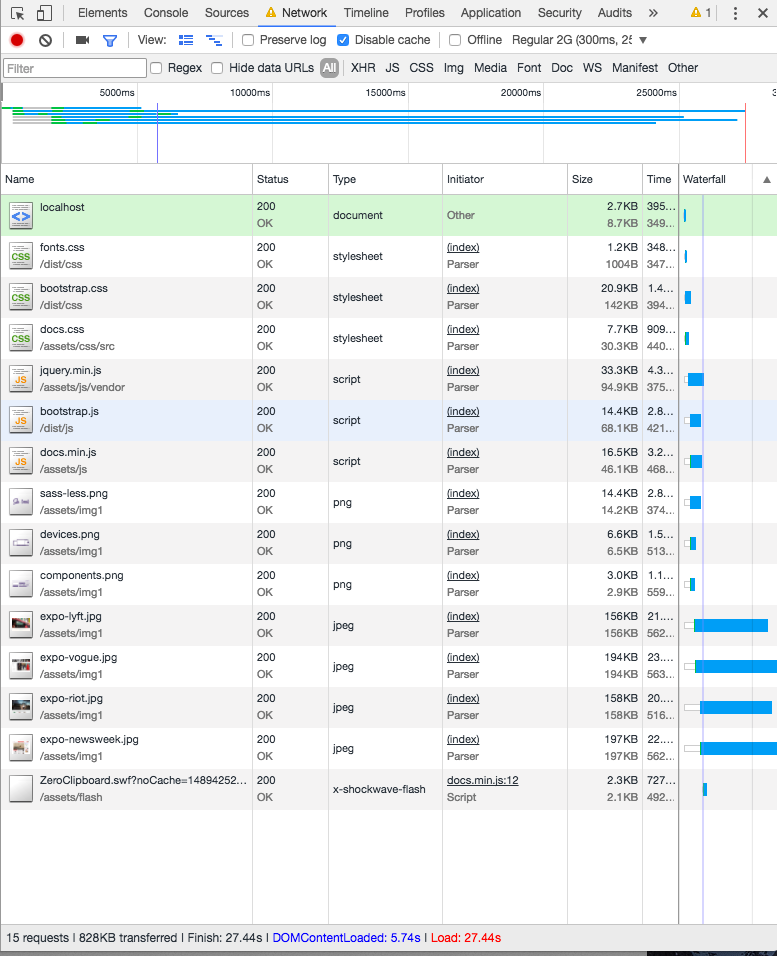
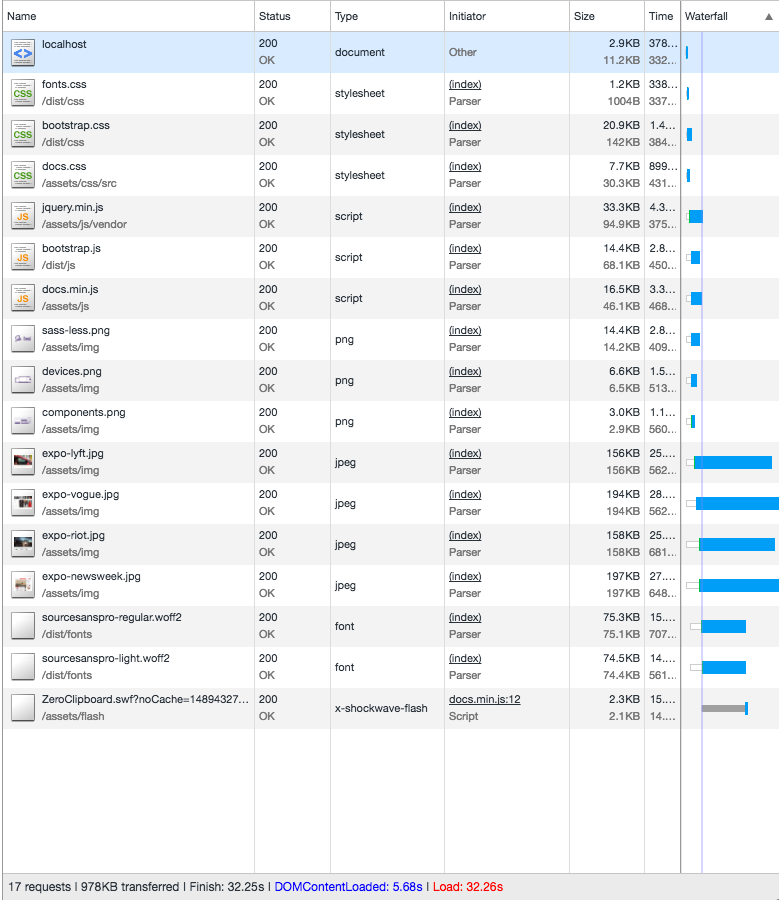
Updated Audit.md

Changed region(s): [[0.0, 0.0, 1.0, 1.0], [0.4324, 0.56, 0.4633, 0.7467]]

diff --git a/audit.md b/audit.md
@@ -1,5 +1,28 @@
 # Audit
+
 Regular 2G (300ms, 250kb/s, 50kb/s)
 
 ## First Audit
-![Initial Audit](screenshots/1. Initial.png "Initial Audit")
+
+- **Requests:** 18
+- **Transfered:** 1.2MB
+- **DOMContentLoaded:** 19.50s
+- **Load:** 41.60s ![Initial Audit](screenshots/1. Initial.png "Initial Audit")
+
+## Added Gzip and defer
+
+Added Gzip compression and defer to script tags, moved script tags to head
+
+- **Requests:** 17
+- **Transfered:** 978KB (-222KB t.o.v. Audit 1)
+- **DOMContentLoaded:** 5.68s (-13.28s t.o.v. Audit 1)
+- **Load:** 32.26s (-9.34 t.o.v. Audit 1) ![Gzip Compression Audit](screenshots/2. Gzip.png "Gzip Compression Audit")
+
+## Optimized Images
+
+Added the picture tag with srcset and media attributes. Compressed images to smaller filesize and added Google webp images.
+- **Requests:** 17
+- **Transfered:** 482KB (-496KB t.o.v. Audit 2 / - 718 t.o.v. Audit 1)
+- **DOMContentLoaded:** 5.78s (+ 0.1s t.o.v. Audit 2 / -13.18s t.o.v. Audit 1)
+- **Load:** 16.44s (-15.82s t.o.v. Audit 2 / -25.16 t.o.v. Audit 1)
+![Optimized images Audit](screenshots/2. Optimized images.png "Gzip Compression Audit")
